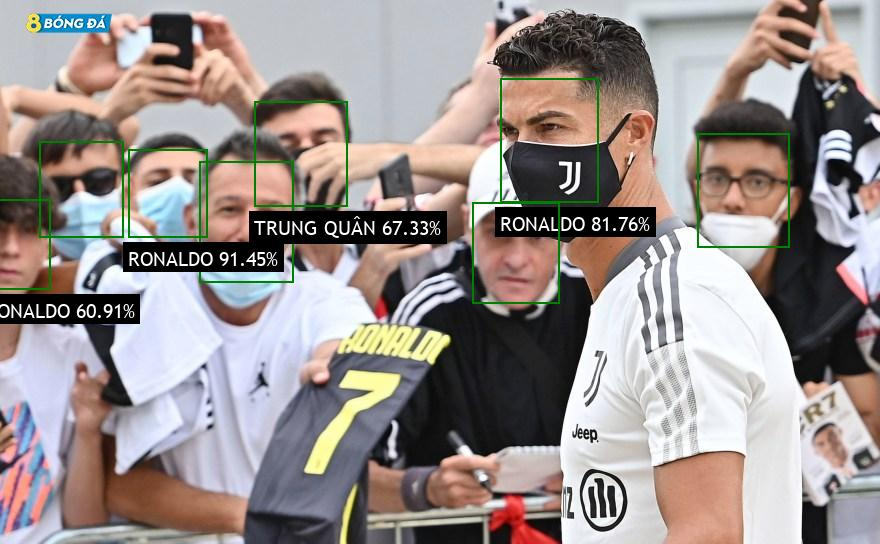
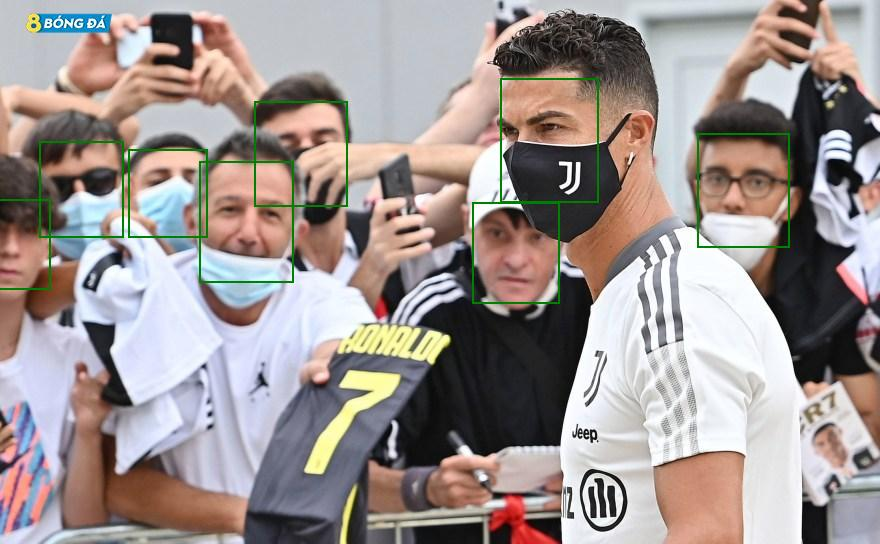
Initial commit

Changed region(s): [[0.1227, 0.375, 0.5216, 0.5], [0.5523, 0.375, 0.767, 0.4375], [0.0, 0.5312, 0.1841, 0.5938]]

diff --git a/face-recognition-master/inference/util.py b/face-recognition-master/inference/util.py
@@ -22,19 +22,19 @@ def draw_bb_on_img(faces, img):
         )
 
 
-        if (face.top_prediction.confidence * 100 > 60) and ():
-            # text background
-            draw.rectangle(
-                (
-                    (int(face.bb.left - margin), int(face.bb.bottom) + margin),
-                    (int(face.bb.left + text_size[0] + margin), int(face.bb.bottom) + text_size[1] + 3 * margin)
-                ),
-                fill='black'
-            )
+        #if (face.top_prediction.confidence * 100 > 70) :
+        # text background
+        draw.rectangle(
+            (
+                (int(face.bb.left - margin), int(face.bb.bottom) + margin),
+                (int(face.bb.left + text_size[0] + margin), int(face.bb.bottom) + text_size[1] + 3 * margin)
+            ),
+            fill='black'
+        )
 
-        # text
-            draw.text(
-                (int(face.bb.left), int(face.bb.bottom) + 2 * margin),
-                text,
-                font=font
-            )
+    # text
+        draw.text(
+            (int(face.bb.left), int(face.bb.bottom) + 2 * margin),
+            text,
+            font=font
+        )

diff --git a/face-recognition-master/inference/video_classifier.py b/face-recognition-master/inference/video_classifier.py
@@ -10,7 +10,7 @@ from inference.constants import MODEL_PATH
 
 
 def main():
-    cap = cv2.VideoCapture("E:/facenet/face-recognition-master/images/Ronaldo SPOTTED in Training Today After Controversial Man United Interview.mp4")
+    cap = cv2.VideoCapture(0)
     face_recogniser = joblib.load(MODEL_PATH)
     preprocess = preprocessing.ExifOrientationNormalize()
 
